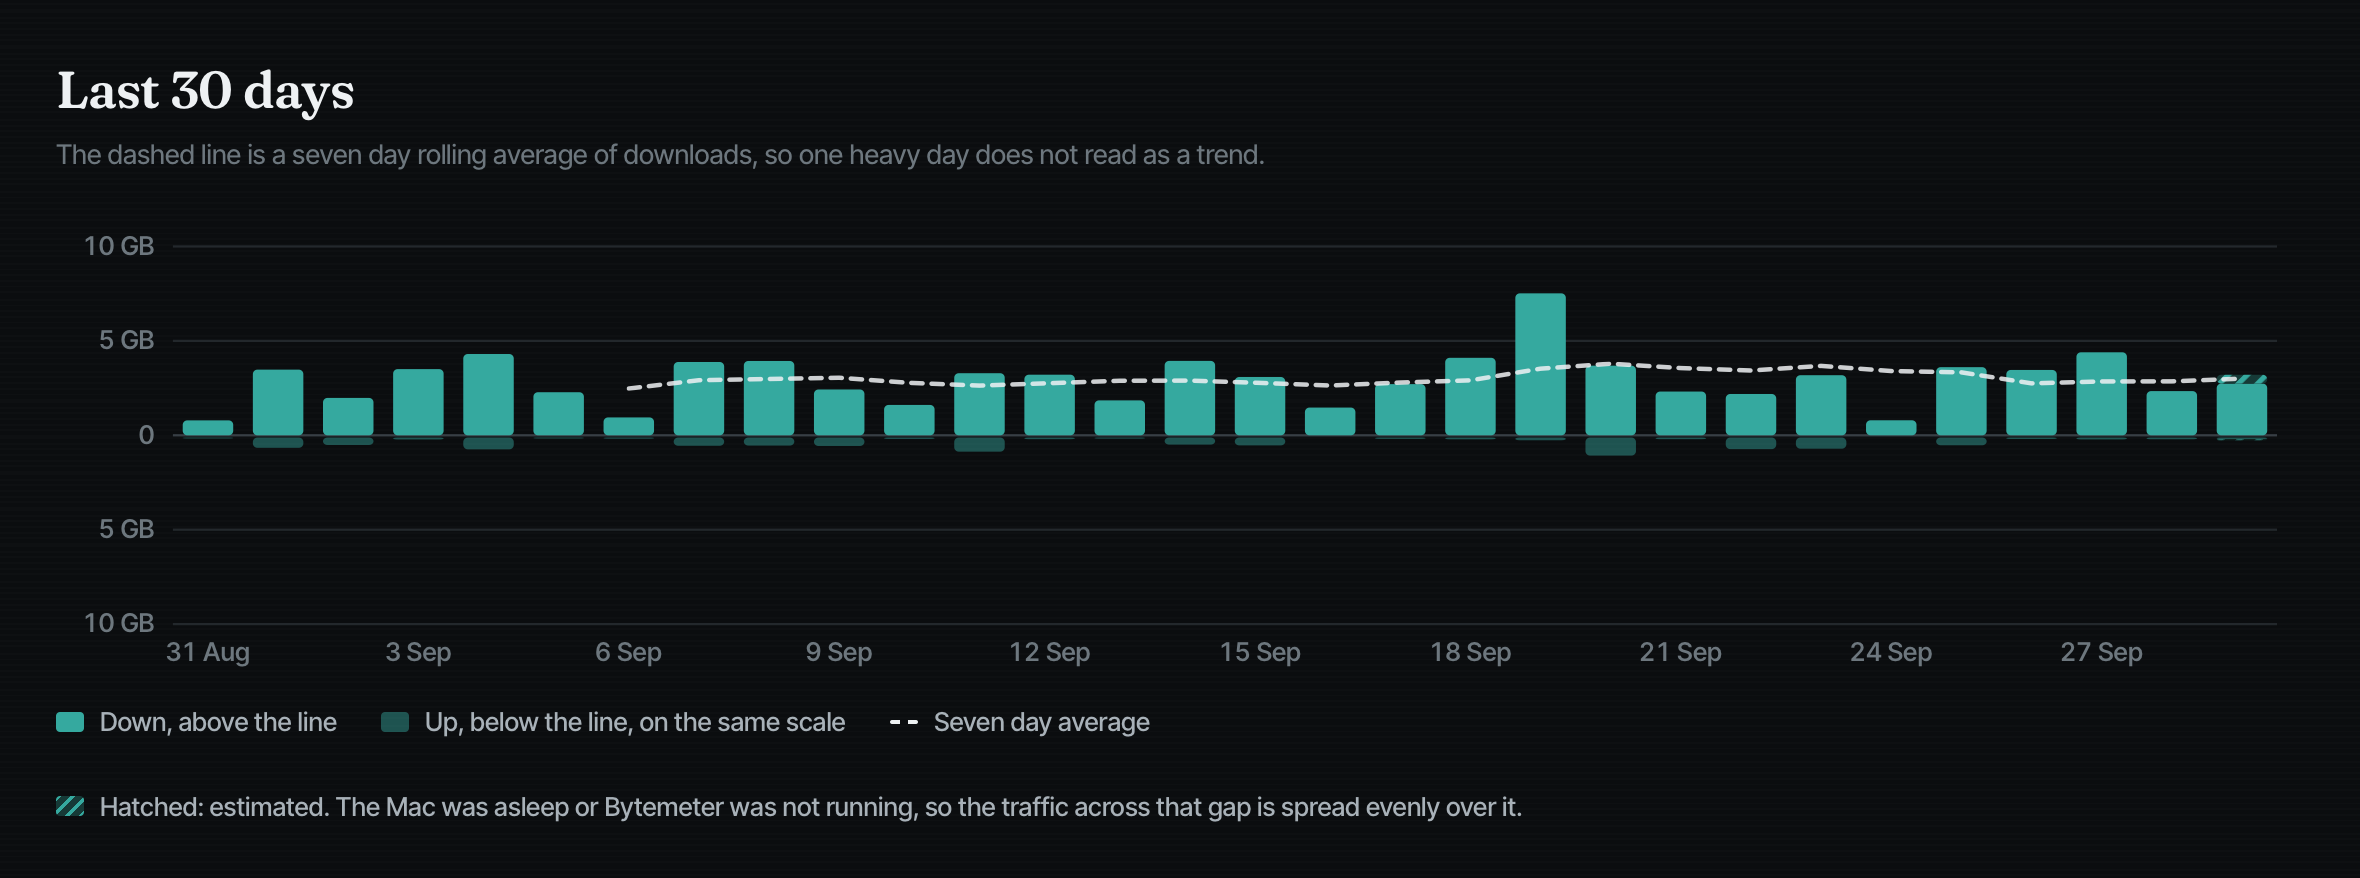
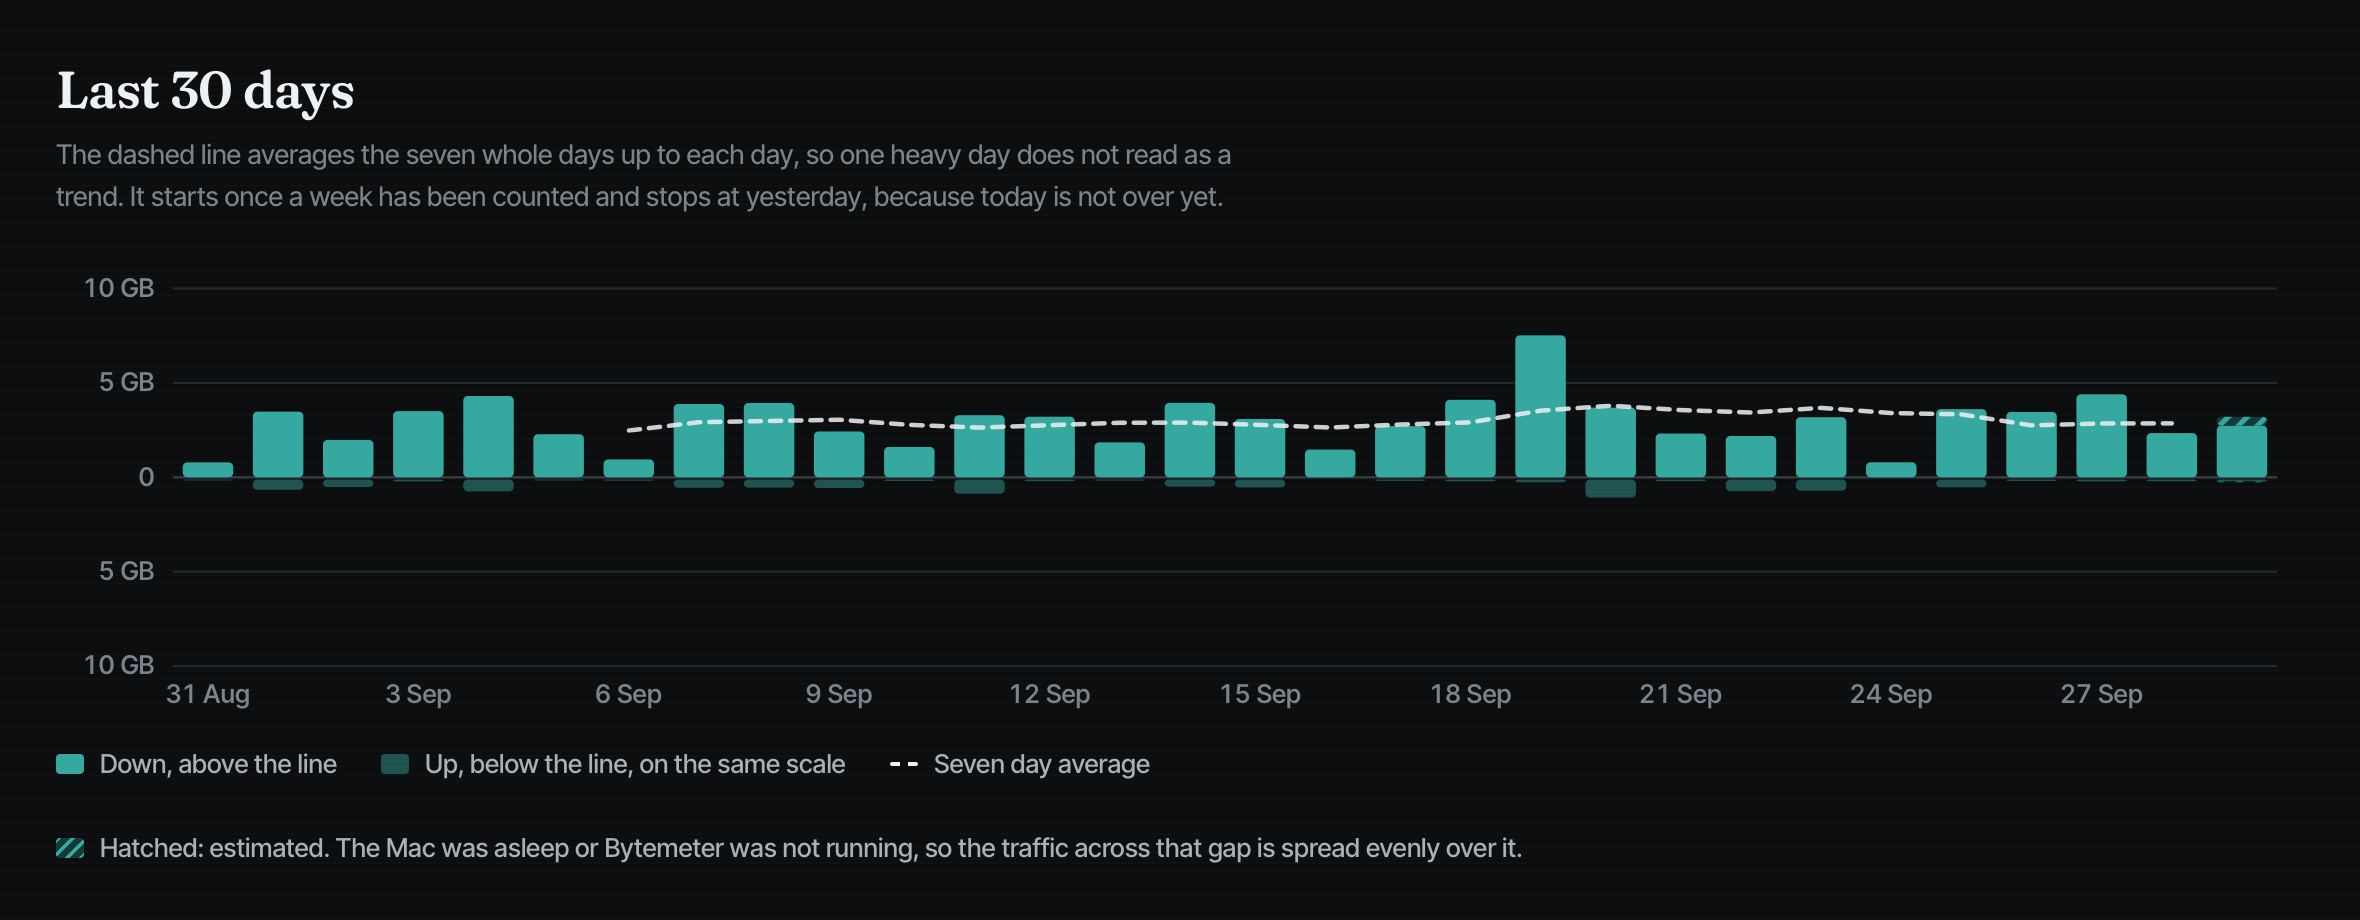
The README's three dashboard images are remade from the synthetic demo
MAINTENANCE crops the taller Last 30 days panel and the heatmap below it
where they now sit.

diff --git a/MAINTENANCE.md b/MAINTENANCE.md
@@ -265,8 +265,8 @@ python3 Scripts/make_demo_db.py /tmp/bytemeter-demo --now 2026-09-29T21:30 --for
 .build/release/Bytemeter --dashboard /tmp/bytemeter-demo --as-of 2026-09-29T21:30
 swift Scripts/snapshot.swift /tmp/bytemeter-demo/dashboard.html /tmp/bytemeter-demo/page.png
 sips -c 2069 2360 --cropOffset 32 220   /tmp/bytemeter-demo/page.png --out docs/dashboard.png
-sips -c 878 2360  --cropOffset 2103 220 /tmp/bytemeter-demo/page.png --out docs/thirty-days.png
-sips -c 896 2336  --cropOffset 2983 232 /tmp/bytemeter-demo/page.png --out docs/heatmap.png
+sips -c 920 2360  --cropOffset 2103 220 /tmp/bytemeter-demo/page.png --out docs/thirty-days.png
+sips -c 896 2336  --cropOffset 3025 232 /tmp/bytemeter-demo/page.png --out docs/heatmap.png
 swift Scripts/snapshot.swift --strip docs/dashboard.png docs/thirty-days.png docs/heatmap.png
 sips -s format png -Z 256 Resources/AppIcon.icns --out docs/icon.png
 ```
